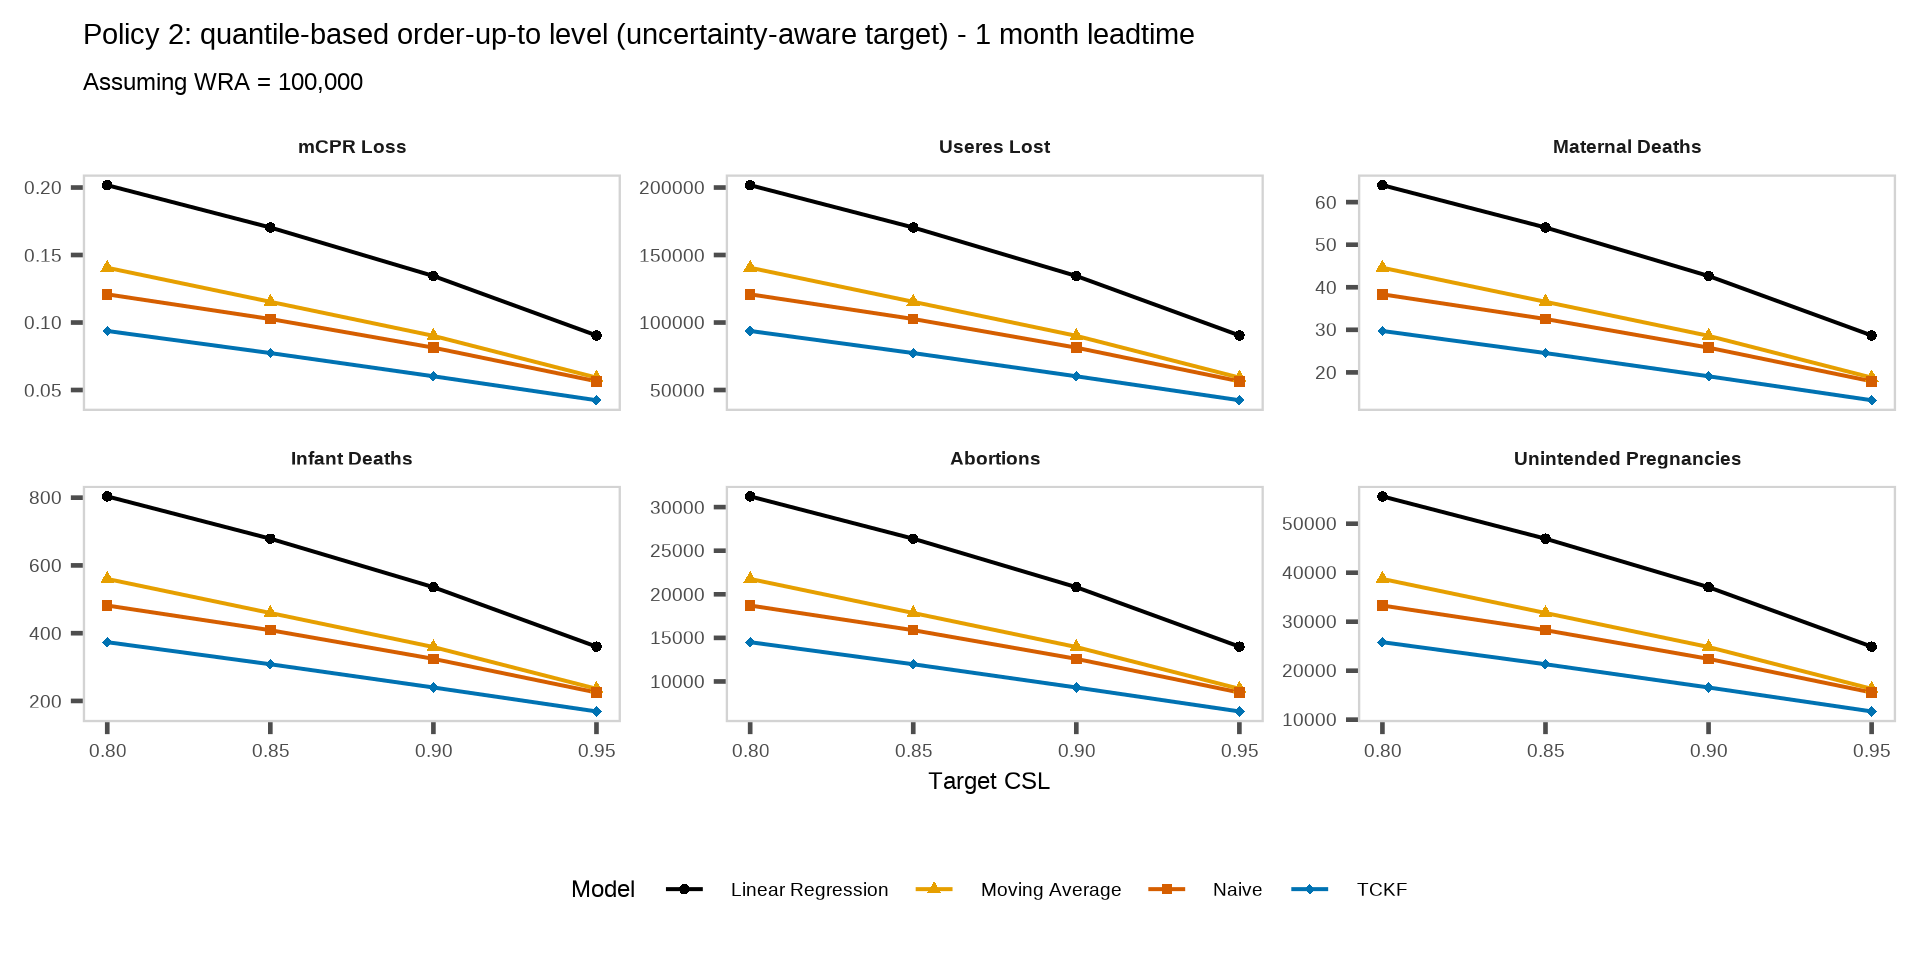
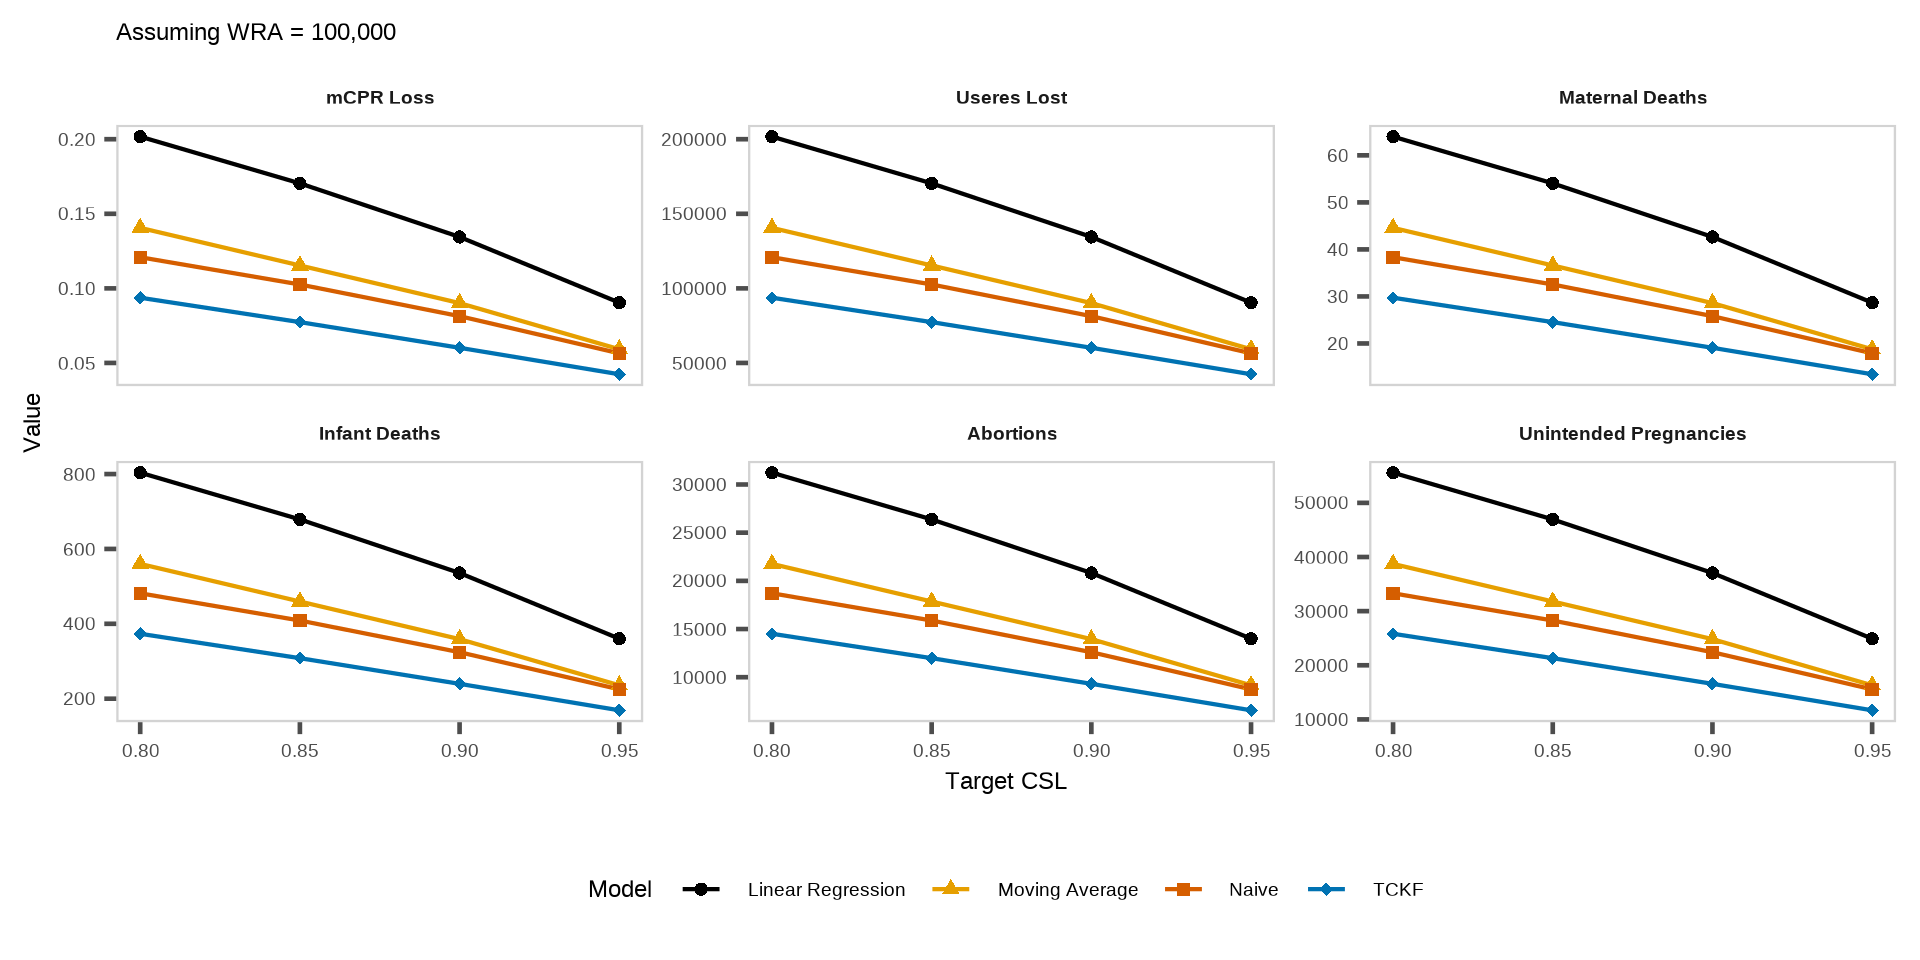
Built site for gh-pages

diff --git a/talks/index.html b/talks/index.html
@@ -219,7 +219,7 @@ window.Quarto = {
     </div>
 </div>
 <div class="list quarto-listing-default">
[2 lines of base64/hex data omitted]
 <div class="thumbnail"><a href="../talks/euro_leeds/index.html" class="no-external">
 
 <img loading="lazy" src="../talks/euro_leeds/cover.png" class="thumbnail-image">
@@ -244,7 +244,7 @@ Harsha Halgamuwe Hewage
 </a>
 </div>
 </div>
[2 lines of base64/hex data omitted]
 <div class="thumbnail"><a href="../talks/qff_london/index.html" class="no-external">
 
 <img loading="lazy" src="../talks/qff_london/cover.png" class="thumbnail-image">
@@ -269,7 +269,7 @@ Harsha Halgamuwe Hewage
 </a>
 </div>
 </div>
[2 lines of base64/hex data omitted]
 <div class="thumbnail"><a href="../talks/dl4sg_seminar/index.html" class="no-external">
 
 <img loading="lazy" src="../talks/dl4sg_seminar/cover.png" class="thumbnail-image">
@@ -294,7 +294,7 @@ Harsha Halgamuwe Hewage
 </a>
 </div>
 </div>
-<div class="quarto-post image-right" data-index="3" data-categories="UmVzZWFyY2glMkNNZXRob2RvbG9neSUyQ1BoaWxvc29waHk=" data-listing-date-sort="1744329600000" data-listing-file-modified-sort="1750062034426" data-listing-date-modified-sort="NaN" data-listing-reading-time-sort="2" data-listing-word-count-sort="334">
+<div class="quarto-post image-right" data-index="3" data-categories="UmVzZWFyY2glMkNNZXRob2RvbG9neSUyQ1BoaWxvc29waHk=" data-listing-date-sort="1744329600000" data-listing-file-modified-sort="1750065093842" data-listing-date-modified-sort="NaN" data-listing-reading-time-sort="2" data-listing-word-count-sort="334">
 <div class="thumbnail"><a href="../talks/intro_method_skills/index.html" class="no-external">
 
 <img loading="lazy" src="../talks/intro_method_skills/cover.png" class="thumbnail-image">

diff --git a/lab/epss_training/slides/epss_training.html b/lab/epss_training/slides/epss_training.html
@@ -638,7 +638,7 @@ Harsha Halgamuwe Hewage <br> Data Lab for Social Good Research Lab <br> Cardiff 
 <h1>Now it is your <code>turn</code>.</h1>
 <div class="cell">
 <div class="cell-output-display">
-<div class="countdown" id="timer_43273626" data-update-every="1" tabindex="0" style="right:0;bottom:0;">
+<div class="countdown" id="timer_f4137c10" data-update-every="1" tabindex="0" style="right:0;bottom:0;">
 <div class="countdown-controls"><button class="countdown-bump-down">−</button><button class="countdown-bump-up">+</button></div>
 <code class="countdown-time"><span class="countdown-digits minutes">15</span><span class="countdown-digits colon">:</span><span class="countdown-digits seconds">00</span></code>
 </div>
@@ -902,7 +902,7 @@ y_t = T_t + S_t + R_t
 <h1>Now it is your <code>turn</code>.</h1>
 <div class="cell">
 <div class="cell-output-display">
-<div class="countdown" id="timer_8d5222a1" data-update-every="1" tabindex="0" style="right:0;bottom:0;">
+<div class="countdown" id="timer_9c9573cd" data-update-every="1" tabindex="0" style="right:0;bottom:0;">
 <div class="countdown-controls"><button class="countdown-bump-down">−</button><button class="countdown-bump-up">+</button></div>
 <code class="countdown-time"><span class="countdown-digits minutes">15</span><span class="countdown-digits colon">:</span><span class="countdown-digits seconds">00</span></code>
 </div>
@@ -1309,7 +1309,7 @@ y_t = T_t + S_t + R_t
 <h1>Now it is your <code>turn</code>.</h1>
 <div class="cell">
 <div class="cell-output-display">
-<div class="countdown" id="timer_07fefc28" data-update-every="1" tabindex="0" style="right:0;bottom:0;">
+<div class="countdown" id="timer_fc59661e" data-update-every="1" tabindex="0" style="right:0;bottom:0;">
 <div class="countdown-controls"><button class="countdown-bump-down">−</button><button class="countdown-bump-up">+</button></div>
 <code class="countdown-time"><span class="countdown-digits minutes">15</span><span class="countdown-digits colon">:</span><span class="countdown-digits seconds">00</span></code>
 </div>
@@ -1432,7 +1432,7 @@ y_t = T_t + S_t + R_t
 <h1>Now it is your <code>turn</code>.</h1>
 <div class="cell">
 <div class="cell-output-display">
-<div class="countdown" id="timer_88fcf1c3" data-update-every="1" tabindex="0" style="right:0;bottom:0;">
+<div class="countdown" id="timer_a4d587b0" data-update-every="1" tabindex="0" style="right:0;bottom:0;">
 <div class="countdown-controls"><button class="countdown-bump-down">−</button><button class="countdown-bump-up">+</button></div>
 <code class="countdown-time"><span class="countdown-digits minutes">15</span><span class="countdown-digits colon">:</span><span class="countdown-digits seconds">00</span></code>
 </div>
@@ -1665,7 +1665,7 @@ Q_{p,t} =
 <h1>Now it is your <code>turn</code>.</h1>
 <div class="cell">
 <div class="cell-output-display">
-<div class="countdown" id="timer_6dc1a0cd" data-update-every="1" tabindex="0" style="right:0;bottom:0;">
+<div class="countdown" id="timer_82156dc4" data-update-every="1" tabindex="0" style="right:0;bottom:0;">
 <div class="countdown-controls"><button class="countdown-bump-down">−</button><button class="countdown-bump-up">+</button></div>
 <code class="countdown-time"><span class="countdown-digits minutes">15</span><span class="countdown-digits colon">:</span><span class="countdown-digits seconds">00</span></code>
 </div>

diff --git a/lab/dl4sg_marcov/materials/dl4sg_markov.html b/lab/dl4sg_marcov/materials/dl4sg_markov.html
@@ -324,7 +324,7 @@ Pr(X_4 = 0\,|\,\underbrace{X_0 = 0,\,X_1 = 1,\, X_2 = 1,\,X_3 = 2)}_{\text{entir
 <p>Is it a good idea to model the <code>weather</code> using a Markov chain?</p>
 <div class="cell">
 <div class="cell-output-display">
-<div class="countdown" id="timer_18b1a52b" data-update-every="1" tabindex="0" style="right:0;bottom:0;">
+<div class="countdown" id="timer_49ae7584" data-update-every="1" tabindex="0" style="right:0;bottom:0;">
 <div class="countdown-controls"><button class="countdown-bump-down">−</button><button class="countdown-bump-up">+</button></div>
 <code class="countdown-time"><span class="countdown-digits minutes">00</span><span class="countdown-digits colon">:</span><span class="countdown-digits seconds">30</span></code>
 </div>
@@ -467,7 +467,7 @@ P^{(n)} = P^{(k)} P^{(n-k)}
 <h2>Lets promote <code>Brand A</code> cont.</h2>
 <div class="cell">
 <div class="cell-output-display">
-<div class="countdown" id="timer_944f8030" data-update-every="1" tabindex="0" style="right:0;bottom:0;">
+<div class="countdown" id="timer_9235f769" data-update-every="1" tabindex="0" style="right:0;bottom:0;">
 <div class="countdown-controls"><button class="countdown-bump-down">−</button><button class="countdown-bump-up">+</button></div>
 <code class="countdown-time"><span class="countdown-digits minutes">10</span><span class="countdown-digits colon">:</span><span class="countdown-digits seconds">00</span></code>
 </div>
@@ -576,7 +576,7 @@ p_{21} &amp; p_{22}
 <h2>Lets promote <code>Brand A</code> cont.</h2>
 <div class="cell">
 <div class="cell-output-display">
-<div class="countdown" id="timer_22754b0d" data-update-every="1" tabindex="0" style="right:0;bottom:0;">
+<div class="countdown" id="timer_abff5a04" data-update-every="1" tabindex="0" style="right:0;bottom:0;">
 <div class="countdown-controls"><button class="countdown-bump-down">−</button><button class="countdown-bump-up">+</button></div>
 <code class="countdown-time"><span class="countdown-digits minutes">10</span><span class="countdown-digits colon">:</span><span class="countdown-digits seconds">00</span></code>
 </div>
@@ -660,7 +660,7 @@ p_{21} &amp; p_{22}
 <h1>Now it is <code>your turn</code></h1>
 <div class="cell">
 <div class="cell-output-display">
-<div class="countdown" id="timer_ff348da8" data-update-every="1" tabindex="0" style="right:0;bottom:0;">
+<div class="countdown" id="timer_51412b71" data-update-every="1" tabindex="0" style="right:0;bottom:0;">
 <div class="countdown-controls"><button class="countdown-bump-down">−</button><button class="countdown-bump-up">+</button></div>
 <code class="countdown-time"><span class="countdown-digits minutes">20</span><span class="countdown-digits colon">:</span><span class="countdown-digits seconds">00</span></code>
 </div>

diff --git a/lab/index.html b/lab/index.html
@@ -219,7 +219,7 @@ window.Quarto = {
     </div>
 </div>
 <div class="list quarto-listing-default">
[2 lines of base64/hex data omitted]
 <div class="thumbnail"><a href="../lab/dl4sg_marcov/index.html" class="no-external">
 
 <img loading="lazy" src="../lab/dl4sg_marcov/cover.png" class="thumbnail-image">
@@ -244,7 +244,7 @@ Harsha Chamara Hewage
 </a>
 </div>
 </div>
[2 lines of base64/hex data omitted]
 <div class="thumbnail"><a href="../lab/epss_training/index.html" class="no-external">
 
 <img loading="lazy" src="../lab/epss_training/cover.png" class="thumbnail-image">
@@ -269,7 +269,7 @@ Harsha Chamara Hewage
 </a>
 </div>
 </div>
-<div class="quarto-post image-right" data-index="2" data-categories="UHl0aG9uJTJDSnVweXRlciUyMExhYiUyQ0RhdGElMjBhbmFseXRpY3M=" data-listing-date-sort="1740960000000" data-listing-file-modified-sort="1750062033989" data-listing-date-modified-sort="NaN" data-listing-reading-time-sort="1" data-listing-word-count-sort="168">
+<div class="quarto-post image-right" data-index="2" data-categories="UHl0aG9uJTJDSnVweXRlciUyMExhYiUyQ0RhdGElMjBhbmFseXRpY3M=" data-listing-date-sort="1740960000000" data-listing-file-modified-sort="1750065093402" data-listing-date-modified-sort="NaN" data-listing-reading-time-sort="1" data-listing-word-count-sort="168">
 <div class="thumbnail"><a href="../lab/intro_python/index.html" class="no-external">
 
 <img loading="lazy" src="../lab/intro_python/cover.jpg" class="thumbnail-image">

diff --git a/talks/intro_method_skills/slides/intro_method_skills.html b/talks/intro_method_skills/slides/intro_method_skills.html
@@ -395,7 +395,7 @@ Harsha Halgamuwe Hewage <br> Data Lab for Social Good Research Lab <br> Cardiff 
 <h2>Activity – Locating your paradigm</h2>
 <div class="cell">
 <div class="cell-output-display">
-<div class="countdown" id="timer_c46983bc" data-update-every="1" tabindex="0" style="right:0;bottom:0;">
+<div class="countdown" id="timer_e26537e7" data-update-every="1" tabindex="0" style="right:0;bottom:0;">
 <div class="countdown-controls"><button class="countdown-bump-down">−</button><button class="countdown-bump-up">+</button></div>
 <code class="countdown-time"><span class="countdown-digits minutes">05</span><span class="countdown-digits colon">:</span><span class="countdown-digits seconds">00</span></code>
 </div>
@@ -447,7 +447,7 @@ Harsha Halgamuwe Hewage <br> Data Lab for Social Good Research Lab <br> Cardiff 
 <h2>Activity – Ethics scenario</h2>
 <div class="cell">
 <div class="cell-output-display">
-<div class="countdown" id="timer_be9be20d" data-update-every="1" tabindex="0" style="right:0;bottom:0;">
+<div class="countdown" id="timer_d8200ed0" data-update-every="1" tabindex="0" style="right:0;bottom:0;">
 <div class="countdown-controls"><button class="countdown-bump-down">−</button><button class="countdown-bump-up">+</button></div>
 <code class="countdown-time"><span class="countdown-digits minutes">05</span><span class="countdown-digits colon">:</span><span class="countdown-digits seconds">00</span></code>
 </div>
@@ -508,7 +508,7 @@ Harsha Halgamuwe Hewage <br> Data Lab for Social Good Research Lab <br> Cardiff 
 <h2>Activity – Plan a study</h2>
 <div class="cell">
 <div class="cell-output-display">
-<div class="countdown" id="timer_0bcb1ab5" data-update-every="1" tabindex="0" style="right:0;bottom:0;">
+<div class="countdown" id="timer_a8ad8e28" data-update-every="1" tabindex="0" style="right:0;bottom:0;">
 <div class="countdown-controls"><button class="countdown-bump-down">−</button><button class="countdown-bump-up">+</button></div>
 <code class="countdown-time"><span class="countdown-digits minutes">10</span><span class="countdown-digits colon">:</span><span class="countdown-digits seconds">00</span></code>
 </div>

diff --git a/projects/publications/index.html b/projects/publications/index.html
@@ -234,7 +234,7 @@ window.Quarto = {
 
 <div class="quarto-listing quarto-listing-container-grid" id="listing-listing">
 <div class="list grid quarto-listing-cols-3">
[2 lines of base64/hex data omitted]
 <a href="../../projects/publications/second-post/index.html" class="quarto-grid-link">
 <div class="quarto-grid-item card h-100 card-left">
 <p class="card-img-top">
@@ -265,7 +265,7 @@ A hybrid predictive and prescriptive modelling framework for long-term mental he
 </div>
 </div></a>
 </div>
[2 lines of base64/hex data omitted]
 <a href="../../projects/publications/first-post/index.html" class="quarto-grid-link">
 <div class="quarto-grid-item card h-100 card-left">
 <p class="card-img-top">

diff --git a/index.html b/index.html
@@ -151,7 +151,7 @@ ul.task-list li input[type="checkbox"] {
 <div class="quarto-title-meta">
   </div>
 </header><main class="content" id="quarto-document-content">
-<p>I am a second-year PhD student at the Data Lab for Social Good research group at Cardiff University, UK. My research focuses on improving forecast methodologies for family planning supply chains in developing countries, with the goal of enhancing their efficiency and accessibility. In addition to my PhD work, I serve as the Coordinator and Training Lead at the <a href="https://www.cardiff.ac.uk/research/explore/research-units/data-lab-for-social-good">Data Lab for Social Good</a>.</p>
+<p>I am a PhD student at the Data Lab for Social Good research group at Cardiff University, UK. My research focuses on improving forecast methodologies for family planning supply chains in developing countries, with the goal of enhancing their efficiency and accessibility. In addition to my PhD work, I serve as the Coordinator and Training Lead at the <a href="https://www.cardiff.ac.uk/research/explore/research-units/data-lab-for-social-good">Data Lab for Social Good</a>.</p>
 <p>I have also led the research network at <a href="https://forecasters.org/programs/communities/forecasting-for-social-good-f4sg/">Forecasting for Social Good (F4SG)</a>, an official section of the International Institute of Forecasters. As part of this role, I managed the <a href="https://github.com/chamara7h/F4SG">Learning Labs workshop series</a>, providing free training on forecasting methodologies using R and Python. I am passionate about leveraging data science and forecasting techniques to address global challenges, and I actively engage with the forecasting and social good communities through workshops, collaborations, and research initiatives.</p>
 <p>Explore my <a href="https://scholar.google.com/citations?user=XgQYqK8AAAAJ&amp;hl=en">full list of publications</a> on Google Scholar.</p>
 

diff --git a/projects/index.html b/projects/index.html
@@ -234,7 +234,7 @@ window.Quarto = {
 
 <div class="quarto-listing quarto-listing-container-grid" id="listing-listing">
 <div class="list grid quarto-listing-cols-3">
-<div class="g-col-1" data-index="0" data-listing-file-modified-sort="1750062033998" data-listing-reading-time-sort="1" data-listing-word-count-sort="4">
+<div class="g-col-1" data-index="0" data-listing-file-modified-sort="1750065093411" data-listing-reading-time-sort="1" data-listing-word-count-sort="4">
 <a href="../projects/design/index.html" class="quarto-grid-link">
 <div class="quarto-grid-item card h-100 card-left">
 <p class="card-img-top">
@@ -250,7 +250,7 @@ Creative Gallery
 </div>
 </div></a>
 </div>
-<div class="g-col-1" data-index="1" data-listing-file-modified-sort="1750062034000" data-listing-reading-time-sort="1" data-listing-word-count-sort="4">
+<div class="g-col-1" data-index="1" data-listing-file-modified-sort="1750065093413" data-listing-reading-time-sort="1" data-listing-word-count-sort="4">
 <a href="../projects/projects/index.html" class="quarto-grid-link">
 <div class="quarto-grid-item card h-100 card-left">
 <p class="card-img-top">
@@ -266,7 +266,7 @@ Data Science Projects
 </div>
 </div></a>
 </div>
-<div class="g-col-1" data-index="2" data-listing-file-modified-sort="1750062034000" data-listing-reading-time-sort="1" data-listing-word-count-sort="1">
+<div class="g-col-1" data-index="2" data-listing-file-modified-sort="1750065093413" data-listing-reading-time-sort="1" data-listing-word-count-sort="1">
 <a href="../projects/publications/index.html" class="quarto-grid-link">
 <div class="quarto-grid-item card h-100 card-left">
 <p class="card-img-top">

diff --git a/talks/euro_leeds/slides/euro_leeds_25.html b/talks/euro_leeds/slides/euro_leeds_25.html
@@ -561,10 +561,12 @@ D_t \in [\max(0, \mu_t - q_\alpha), \mu_t + q_\alpha]
 </section>
 <section id="overall-forecasting-and-inventory-performance-across-models-1" class="slide level2">
 <h2>Overall forecasting and inventory performance across models</h2>
+<p><br> <code>Policy 2</code>: quantile-based order-up-to level (uncertainty-aware target) - 1 month leadtime</p>
 
 <img data-src="euro_leeds_25_files/figure-revealjs/unnamed-chunk-6-1.png" width="960" class="r-stretch"></section>
 <section id="public-healthcare-indicators-across-models" class="slide level2">
 <h2>Public healthcare indicators across models</h2>
+<p><br> <code>Policy 2</code>: quantile-based order-up-to level (uncertainty-aware target) - 1 month leadtime</p>
 
 <img data-src="euro_leeds_25_files/figure-revealjs/unnamed-chunk-7-1.png" width="960" class="r-stretch"></section>
 

diff --git a/lab/intro_python/index.html b/lab/intro_python/index.html
@@ -314,7 +314,7 @@ Click on the following link to open the tutorial.
 </thead>
 <tbody class="list">
 
-<tr data-index="0" data-listing-file-modified-sort="1750062033989" data-listing-reading-time-sort="9" data-listing-word-count-sort="1649" data-listing-title-sort="Introduction to Python" data-listing-filename-sort="index.ipynb">
+<tr data-index="0" data-listing-file-modified-sort="1750065093402" data-listing-reading-time-sort="9" data-listing-word-count-sort="1649" data-listing-title-sort="Introduction to Python" data-listing-filename-sort="index.ipynb">
 <td>
 <a href="../../lab/intro_python/materials/index.html" class="title listing-title">Introduction to Python</a>
 </td>
